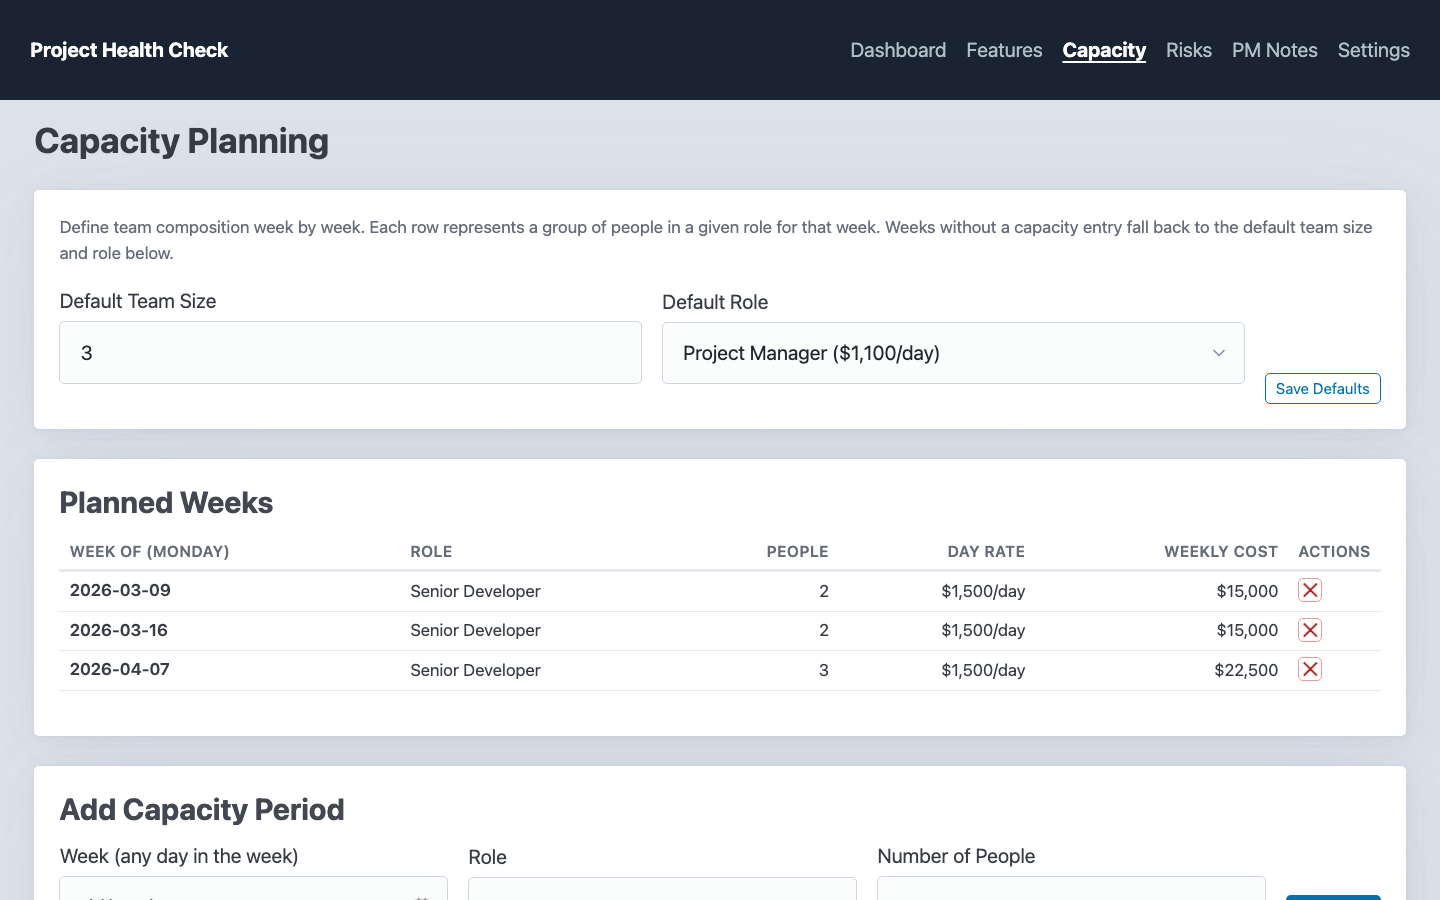
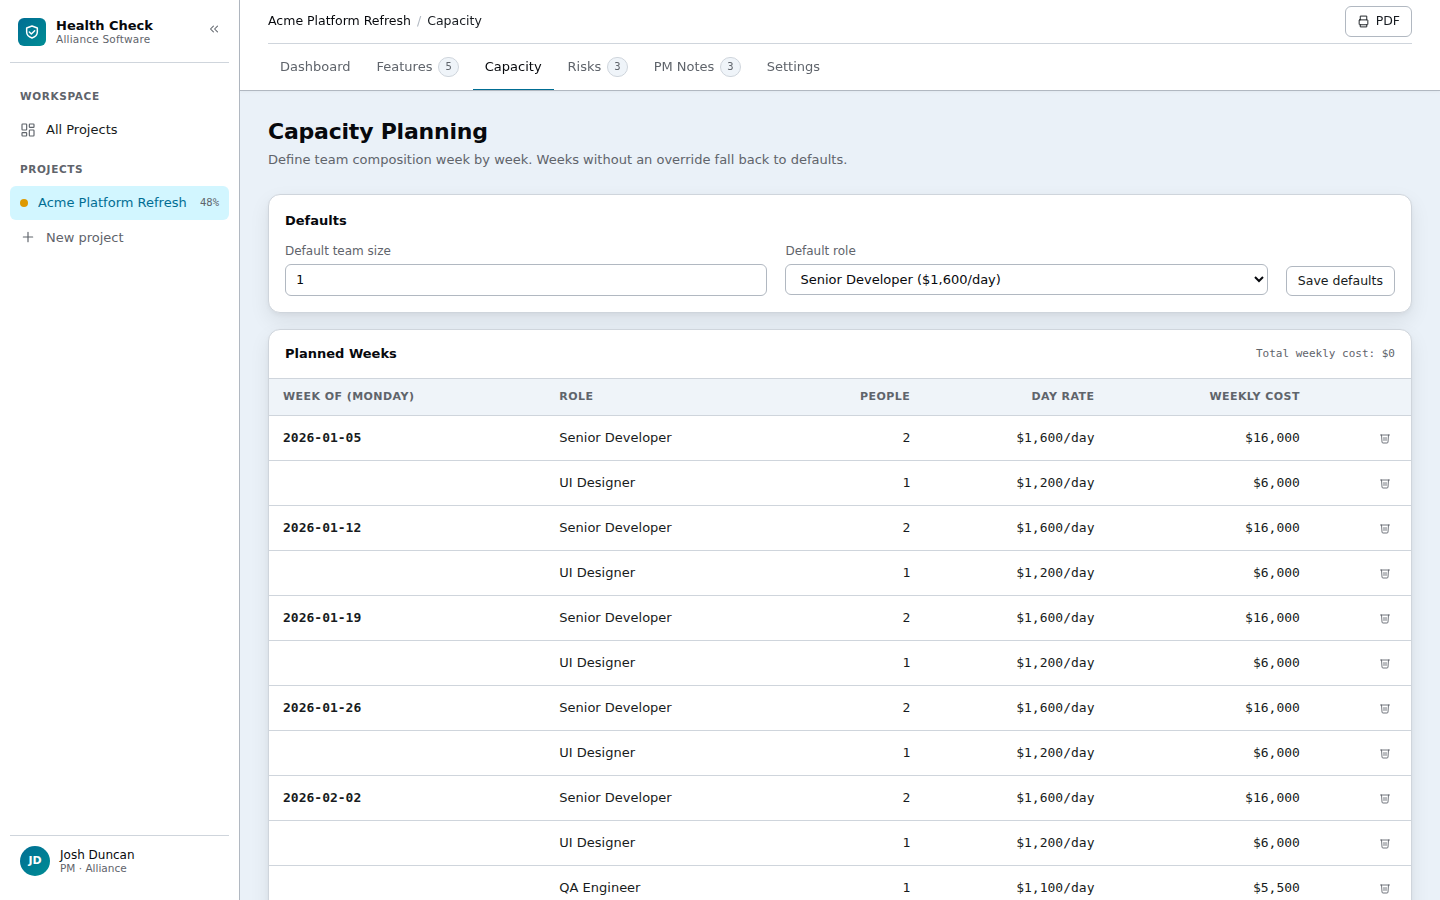
chore(readme): refresh screenshots with new sidebar UI and demo data
Retakes all README screenshots against a realistic demo project
(Acme Platform Refresh) using Playwright. Captures the current
sidebar/topbar shell, risks card grid, segmented theme toggle and
the full 15-swatch accent palette introduced in this session.
Adds take_screenshots.py as a repeatable developer utility for
future screenshot refreshes.

https://claude.ai/code/session_01281xEgYPMx1SDJb6yayQBR

diff --git a/take_screenshots.py b/take_screenshots.py
@@ -1,0 +1,269 @@
+#!/usr/bin/env python3
+"""One-shot script: seed demo DB, start server, capture README screenshots, clean up."""
+
+import os
+import sys
+import subprocess
+import time
+import sqlite_utils
+from datetime import date, timedelta
+from playwright.sync_api import sync_playwright
+
+DB_PATH = os.path.join(os.path.dirname(__file__), "health_check.db")
+OUT_DIR = os.path.join(os.path.dirname(__file__), "readme_screenshots")
+PORT = 8765
+BASE = f"http://localhost:{PORT}"
+P1 = f"{BASE}/p/1"
+
+# ── Demo data ────────────────────────────────────────────────────────────────
+
+def seed():
+    from database import init_db, get_db
+    init_db()
+    db = get_db()
+
+    # Overwrite the blank seed project with realistic demo values
+    today = date(2026, 4, 21)
+    db["projects"].update(1, {
+        "name": "Acme Platform Refresh",
+        "description": "Full-stack rebuild of the Acme customer portal and billing system.",
+        "start_date": "2025-10-01",
+        "as_of_date": today.isoformat(),
+        "initial_budget": 500000.0,
+        "actual_spend": 82000.0,
+        "health_on_track_pct": 100.0,
+        "health_at_risk_pct": 80.0,
+        "accent": "cyan",
+        "theme": "light",
+    })
+
+    # Roles
+    db["roles"].delete_where("project_id = 1")
+    r_dev = db["roles"].insert({"project_id": 1, "name": "Senior Developer", "day_rate": 1600.0}).last_pk
+    r_des = db["roles"].insert({"project_id": 1, "name": "UI Designer",       "day_rate": 1200.0}).last_pk
+    r_qa  = db["roles"].insert({"project_id": 1, "name": "QA Engineer",       "day_rate": 1100.0}).last_pk
+    db["projects"].update(1, {"default_role_id": r_dev})
+
+    # Budget adjustment
+    db["budget_adjustments"].delete_where("project_id = 1")
+    db["budget_adjustments"].insert({"project_id": 1, "amount": 25000.0, "date": "2026-01-15",
+                                      "description": "Phase 2 scope addition approved by steering committee"})
+
+    # Overheads
+    db["overheads"].delete_where("project_id = 1")
+    db["overheads"].insert({"project_id": 1, "name": "Infrastructure & Hosting", "description": "AWS services", "amount": 18000.0, "sort_order": 1})
+    db["overheads"].insert({"project_id": 1, "name": "QA Tooling",              "description": "Playwright + CI licences", "amount": 4500.0, "sort_order": 2})
+
+    # Features + requirements + deliverables
+    feats = [
+        (1, "User Authentication & SSO",    1,  1),
+        (2, "Dashboard & Reporting",         2,  1),
+        (3, "Billing & Subscriptions",       3,  1),
+        (4, "Mobile Experience",             4,  0),
+        (5, "Admin Portal",                  5,  0),
+    ]
+    db["features"].delete_where("project_id = 1")
+
+    for fid, fname, sort, started in feats:
+        db["features"].insert({"id": fid, "project_id": 1, "name": fname, "sort_order": sort, "started": started})
+
+    # Requirements & deliverables
+    req_id = 1
+    del_id = 1
+
+    def add_req(fid, name, deliverables):
+        nonlocal req_id, del_id
+        db["requirements"].insert({"id": req_id, "feature_id": fid, "name": name, "sort_order": req_id})
+        cur_req = req_id
+        req_id += 1
+        for dname, days, pct, priority, role in deliverables:
+            db["deliverables"].insert({
+                "id": del_id, "requirement_id": cur_req, "name": dname,
+                "budget_days": days, "percent_complete": pct,
+                "priority": priority, "role_id": role, "sort_order": del_id,
+            })
+            del_id += 1
+
+    # Feature 1: User Authentication (100% done)
+    add_req(1, "OAuth 2.0 / SSO Integration", [
+        ("Research identity provider options",  2,  100, "must",   r_dev),
+        ("Implement Auth0 integration",         8,  100, "must",   r_dev),
+        ("SSO token refresh & session mgmt",    4,  100, "must",   r_dev),
+        ("Design login / logout screens",       2,  100, "should", r_des),
+    ])
+    add_req(1, "Role-based Access Control", [
+        ("Define permission matrix",            1,  100, "must",   r_dev),
+        ("Backend middleware enforcement",      3,  100, "must",   r_dev),
+        ("Frontend route guards",               2,  100, "must",   r_dev),
+        ("RBAC smoke test suite",               2,  100, "must",   r_qa),
+    ])
+
+    # Feature 2: Dashboard & Reporting (72% done)
+    add_req(2, "Live Metrics Cards", [
+        ("Identify KPI data sources",           1,  100, "must",   r_dev),
+        ("Build data aggregation API",          6,  100, "must",   r_dev),
+        ("Card component library",              3,  100, "should", r_des),
+        ("Real-time websocket feed",            5,   60, "should", r_dev),
+    ])
+    add_req(2, "Exportable PDF Reports", [
+        ("Report template design",              2,   80, "should", r_des),
+        ("PDF generation service",              4,   50, "must",   r_dev),
+        ("Scheduled email delivery",            3,    0, "could",  r_dev),
+    ])
+    add_req(2, "Custom Date Ranges", [
+        ("Date-range picker component",         2,  100, "must",   r_des),
+        ("Backend filter parameters",           2,   70, "must",   r_dev),
+    ])
+
+    # Feature 3: Billing & Subscriptions (45% done)
+    add_req(3, "Stripe Integration", [
+        ("Stripe account & product setup",      1,  100, "must",   r_dev),
+        ("Subscription lifecycle webhooks",     5,   70, "must",   r_dev),
+        ("Payment method management UI",        4,   20, "must",   r_des),
+        ("Invoice generation & PDF",            4,    0, "must",   r_dev),
+    ])
+    add_req(3, "Plan Management", [
+        ("Plan comparison page",                3,   60, "must",   r_des),
+        ("Upgrade / downgrade flows",           5,   20, "must",   r_dev),
+        ("Proration calculations",              3,    0, "must",   r_dev),
+    ])
+
+    # Feature 4: Mobile Experience (8% done)
+    add_req(4, "Responsive Redesign", [
+        ("Audit current breakpoints",           1,   80, "must",   r_des),
+        ("Redesign card layout for mobile",     5,    0, "must",   r_des),
+        ("Touch gesture support",               4,    0, "should", r_dev),
+    ])
+    add_req(4, "Native-feel Navigation", [
+        ("Bottom nav bar component",            3,    0, "must",   r_des),
+        ("Swipe transitions",                   2,    0, "could",  r_dev),
+    ])
+
+    # Feature 5: Admin Portal (0% done)
+    add_req(5, "User Management", [
+        ("User list & search UI",               4,    0, "must",   r_des),
+        ("Invite / deactivate flows",           4,    0, "must",   r_dev),
+        ("Bulk role assignment",                3,    0, "should", r_dev),
+    ])
+    add_req(5, "Audit Log", [
+        ("Event capture middleware",            3,    0, "must",   r_dev),
+        ("Log viewer UI with filters",          5,    0, "should", r_des),
+    ])
+
+    # Risks
+    db["risks"].delete_where("project_id = 1")
+    base = date(2026, 1, 10)
+    db["risks"].insert({"project_id": 1, "name": "Third-party API deprecation",
+        "description": "Stripe's legacy Charges API is deprecated in Q3; migration required before cutover.",
+        "status": "open", "date_identified": "2026-01-10", "due_date": "2026-06-01",
+        "impact_days": 12.0, "timeline_impact_days": 8.0, "sort_order": 1,
+        "realised_percentage": 0.0, "resultant_work": ""})
+    db["risks"].insert({"project_id": 1, "name": "Lead developer unavailability",
+        "description": "Senior dev booked for 2-week client offsite in May, reducing capacity.",
+        "status": "open", "date_identified": "2026-02-18", "due_date": "2026-05-31",
+        "impact_days": 8.0, "timeline_impact_days": 10.0, "sort_order": 2,
+        "realised_percentage": 0.0, "resultant_work": ""})
+    db["risks"].insert({"project_id": 1, "name": "Scope expansion: custom reporting",
+        "description": "Stakeholders requesting bespoke CSV export on top of PDF exports.",
+        "status": "open", "date_identified": "2026-03-05", "due_date": "2026-06-15",
+        "impact_days": 5.0, "timeline_impact_days": 3.0, "sort_order": 3,
+        "realised_percentage": 0.0, "resultant_work": ""})
+    db["risks"].insert({"project_id": 1, "name": "Database migration complexity",
+        "description": "Legacy Oracle schema harder to map than estimated; required an extra sprint.",
+        "status": "done", "date_identified": "2025-11-20", "due_date": "2026-01-31",
+        "impact_days": 6.0, "timeline_impact_days": 5.0, "sort_order": 4,
+        "realised_percentage": 100.0,
+        "resultant_work": "Added a dedicated migration sprint (sprints 3–4) with extra DBA support."})
+
+    # Capacity
+    db["capacity_periods"].delete_where("project_id = 1")
+    start = date(2026, 1, 5)
+    for i in range(16):
+        week = (start + timedelta(weeks=i)).isoformat()
+        db["capacity_periods"].insert({"project_id": 1, "week_start_date": week, "role_id": r_dev, "team_size": 2})
+        db["capacity_periods"].insert({"project_id": 1, "week_start_date": week, "role_id": r_des, "team_size": 1})
+        if i >= 4:
+            db["capacity_periods"].insert({"project_id": 1, "week_start_date": week, "role_id": r_qa, "team_size": 1})
+
+    # PM Notes
+    db["pm_notes"].delete_where("project_id = 1")
+    db["pm_notes"].insert({"project_id": 1, "name": "Review UI designs with client",
+        "description": "Walk through Figma mockups for billing flows and mobile nav.",
+        "status": "todo", "due_date": "2026-04-25", "sort_order": 1})
+    db["pm_notes"].insert({"project_id": 1, "name": "Prepare Sprint 9 backlog",
+        "description": "Prioritise mobile + billing items for the upcoming sprint.",
+        "status": "todo", "due_date": "2026-04-23", "sort_order": 2})
+    db["pm_notes"].insert({"project_id": 1, "name": "Update risk register post-retro",
+        "description": "Add new scope-creep risk identified in Sprint 8 retrospective.",
+        "status": "todo", "due_date": "2026-04-28", "sort_order": 3})
+    db["pm_notes"].insert({"project_id": 1, "name": "Sign off Phase 1 deliverables",
+        "description": "Authentication and dashboard features approved by product owner.",
+        "status": "done", "due_date": "2026-03-31", "sort_order": 4})
+    db["pm_notes"].insert({"project_id": 1, "name": "Agree DB migration strategy with DBA",
+        "description": "Resolved: Oracle → Postgres via pgloader with manual FK fixes.",
+        "status": "done", "due_date": "2026-01-28", "sort_order": 5})
+
+    print("Demo data seeded.")
+
+
+# ── Screenshots ───────────────────────────────────────────────────────────────
+
+PAGES = [
+    ("Dashboard",      f"{P1}/",           "Dashboard.png"),
+    ("Features",       f"{P1}/features",   "Features.png"),
+    ("Feature Detail", f"{P1}/features/1", "Feature_Detail.png"),
+    ("Capacity",       f"{P1}/capacity",   "Capacity.png"),
+    ("Risks",          f"{P1}/risks",      "Risks.png"),
+    ("PM Notes",       f"{P1}/notes",      "PM_Notes.png"),
+    ("Settings",       f"{P1}/settings",   "Settings.png"),
+]
+
+
+def capture():
+    with sync_playwright() as pw:
+        browser = pw.chromium.launch(headless=True)
+        ctx = browser.new_context(viewport={"width": 1440, "height": 900})
+        page = ctx.new_page()
+
+        # Block Google Fonts to avoid network waits
+        page.route("**fonts.googleapis.com**", lambda r: r.abort())
+        page.route("**fonts.gstatic.com**",    lambda r: r.abort())
+
+        for label, url, fname in PAGES:
+            print(f"  Capturing {label}…")
+            page.goto(url, wait_until="domcontentloaded")
+            page.wait_for_timeout(400)
+            out = os.path.join(OUT_DIR, fname)
+            page.screenshot(path=out, full_page=False)
+            print(f"    → {out}")
+
+        browser.close()
+
+
+# ── Main ──────────────────────────────────────────────────────────────────────
+
+if __name__ == "__main__":
+    if os.path.exists(DB_PATH):
+        print("health_check.db already exists — remove it first if you want fresh demo data.")
+        sys.exit(1)
+
+    print("Seeding demo database…")
+    seed()
+
+    print(f"Starting server on port {PORT}…")
+    srv = subprocess.Popen(
+        ["uvicorn", "main:app", "--port", str(PORT), "--log-level", "warning"],
+        cwd=os.path.dirname(__file__),
+    )
+    time.sleep(3)
+
+    try:
+        print("Taking screenshots…")
+        capture()
+        print("Done.")
+    finally:
+        srv.terminate()
+        srv.wait()
+        if os.path.exists(DB_PATH):
+            os.remove(DB_PATH)
+            print("Cleaned up demo database.")

diff --git a/Todos.md b/Todos.md
@@ -12,7 +12,7 @@ This is a list of ToDos. Read through it, plan to address items, and tick items 
 ### Risks & Notes
 
 ### Misc
-* [ ] Using dummy data, update the Readme screenshots based on the new UI. 
+* [x] Using dummy data, update the Readme screenshots based on the new UI. 
 
 
 ## New Feature Items
